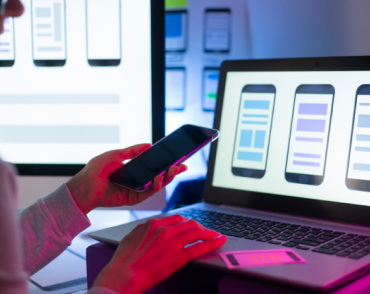
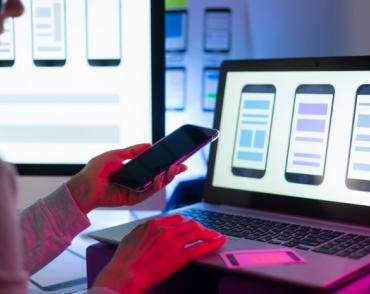
Обжимает изображения

diff --git a/index.html b/index.html
@@ -1,74 +1,114 @@
 <!DOCTYPE html>
-<html lang="en">
+<html lang="ru">
 <head>
     <meta charset="UTF-8">
     <meta http-equiv="X-UA-Compatible" content="IE=edge">
     <meta name="viewport" content="width=device-width, initial-scale=1.0">
-    <title>Document</title>
+    <title>Project</title>
 </head>
-<body>
-    <!-- Шапка сайта -->
-   <header>
-        <nav>
-            <a href="/">
-                <img src="./images/logo.svg" alt="Логотип компании" />
-            </a>
+    <body>
+        <!-- Шапка сайта -->
+    <header>
+            <nav>
+                <a href="/">
+                    <img src="./images/logo.svg" alt="Логотип компании" />
+                </a>
+                <ul>
+                    <li><a href="">Студия</a></li> 
+                    <li><a href="">Портфолио</a></li>
+                    <li><a href="">Контакты</a></li>
+                </ul>
+            </nav>
             <ul>
-                <li><a href="">Студия</a></li> 
-                <li><a href="">Портфолио</a></li>
-                <li><a href="">Контакты</a></li>
+                <li><a href="mailto:info@devstudio.com">info@devstudio.com</a></li>
+                <li><a href="tel:+380961111111">+38 096 111 11 11</a></li>
             </ul>
-        </nav>
-        <ul>
-            <li><a href="">info@devstudio.com</a></li>
-            <li><a href="">+38 096 111 11 11</a></li>
-        </ul>
-   </header>
-    <!-- Герой -->
-   <div>
-       <section>
+    </header>
+    <main>
+        <!-- Герой -->
+        <section> 
             <h1>Эффективные решения для вашего бизнеса</h1>
-             <a href="">Заказать услугу</a>
-    </div>
-       </section>
-       <section>
-        <h2>Особенности</h2>
-        <ul>
-            <li>
-                <h3>Внимание к деталям</h3>
-                <p>Идейные соображения, а также начало повседневной работы по формированию позиции.</p>
-            </li>
-            <li>
-                <h3>Пунктуальность</h3>
-                <p>Задача организации, в особенности же рамки и место обучения кадров влечет за собой.</p>
-            </li>
-            <li>
-                <h3>Планирование</h3>
-                <p>Равным образом консультация с широким активом в значительной степени обуславливает.</p>
-            </li>
-            <li>
-                <h3>Современные технологии</h3>
-                <p>Значимость этих проблем настолько очевидна, что реализация плановых заданий.</p>
-            </li>
-        </ul>
-        <h3>Чем мы занимаемся</h3>
-        <ul>
-            <li>
-                <a href="">
-                    <img src="/images/Веб разработка.jpg" alt="Веб разработка" width="370"/>
-                </a>
-            </li>
-            <li>
-                <a href=""><img src="/images/Mобильная разработка.jpg" alt="Мобильная разработка" width="370"/>
-                </a>
-            </li>
-            <li>
-                <a href=""><img src="/images/Дизайн.jpg" alt="Дизайн" width="370"/>
-                </a>             
-            </li>
-        </ul>
-       </section>
-   
-</body>
+            <a href="">Заказать услугу</a>
+        </section>
+        <!-- Наши услуги и особенности -->
+        <section>
+            <h2>Характерные особенности</h2>
+            <ul>
+                <li>
+                    <h3>Внимание к деталям</h3>
+                    <p>Идейные соображения, а также начало повседневной работы по формированию позиции.</p>
+                </li>
+                <li>
+                    <h3>Пунктуальность</h3>
+                    <p>Задача организации, в особенности же рамки и место обучения кадров влечет за собой.</p>
+                </li>
+                <li>
+                    <h3>Планирование</h3>
+                    <p>Равным образом консультация с широким активом в значительной степени обуславливает.</p>
+                </li>
+                <li>
+                    <h3>Современные технологии</h3>
+                    <p>Значимость этих проблем настолько очевидна, что реализация плановых заданий.</p>
+                </li>
+            </ul>
+            <h3>Чем мы занимаемся</h3>
+            <ul>
+                <li>
+                    <a href="">
+                        <img src="./images/Веб разработка.jpg" alt="Веб разработка" width="370"/>
+                    </a>
+                </li>
+                <li>
+                    <a href="">
+                        <img src="./images/Mобильная разработка.jpg" alt="Мобильная разработка" width="370"/>
+                    </a>
+                </li>
+                <li>
+                    <a href="">
+                        <img src="./images/Дизайн.jpg" alt="Дизайн" width="370"/>
+                    </a>             
+                </li>
+            </ul>
+        </section>
+        <section>
+            <h2>Наша команда</h2>
+            <ul>
+                <li>
+                    <a href="">
+                        <img src="./images/Игорь Демьяненко.jpg" alt="Игорь Демьяненко" width="270" />
+                        <h3>Игорь Демьяненко</h3>
+                        <p>Product Designer</p>
+                    </a>
+                </li>
+                <li>
+                    <a href="">
+                        <img src="./images/Ольга Репина.jpg" alt="Ольга Репина" width="270" />
+                        <h3>Ольга Репина</h3>
+                        <p>Frontend Developer</p>
+                    </a>
+                </li>
+                <li>
+                    <a href="">
+                        <img src="./images/Николай Тарасов.jpg" alt="Николай Тарасов" width="270" />
+                        <h3>Николай Тарасов</h3>
+                        <p>Marketing</p>
+                    </a>
+                </li>
+                <li>
+                    <a href="">
+                        <img src="./images/Михаил Ермаков.jpg" alt="Михаил Ермаков" width="270" />
+                        <h3>Михаил Ермаков</h3>
+                        <p>UI Designer</p>
+                    </a>
+                </li>
+            </ul>
+
+        </section>
+    </main>
+    <!-- Футер -->
+    <footer>
+      Футер 
+    </footer>
+    </body>
 </html>
 
